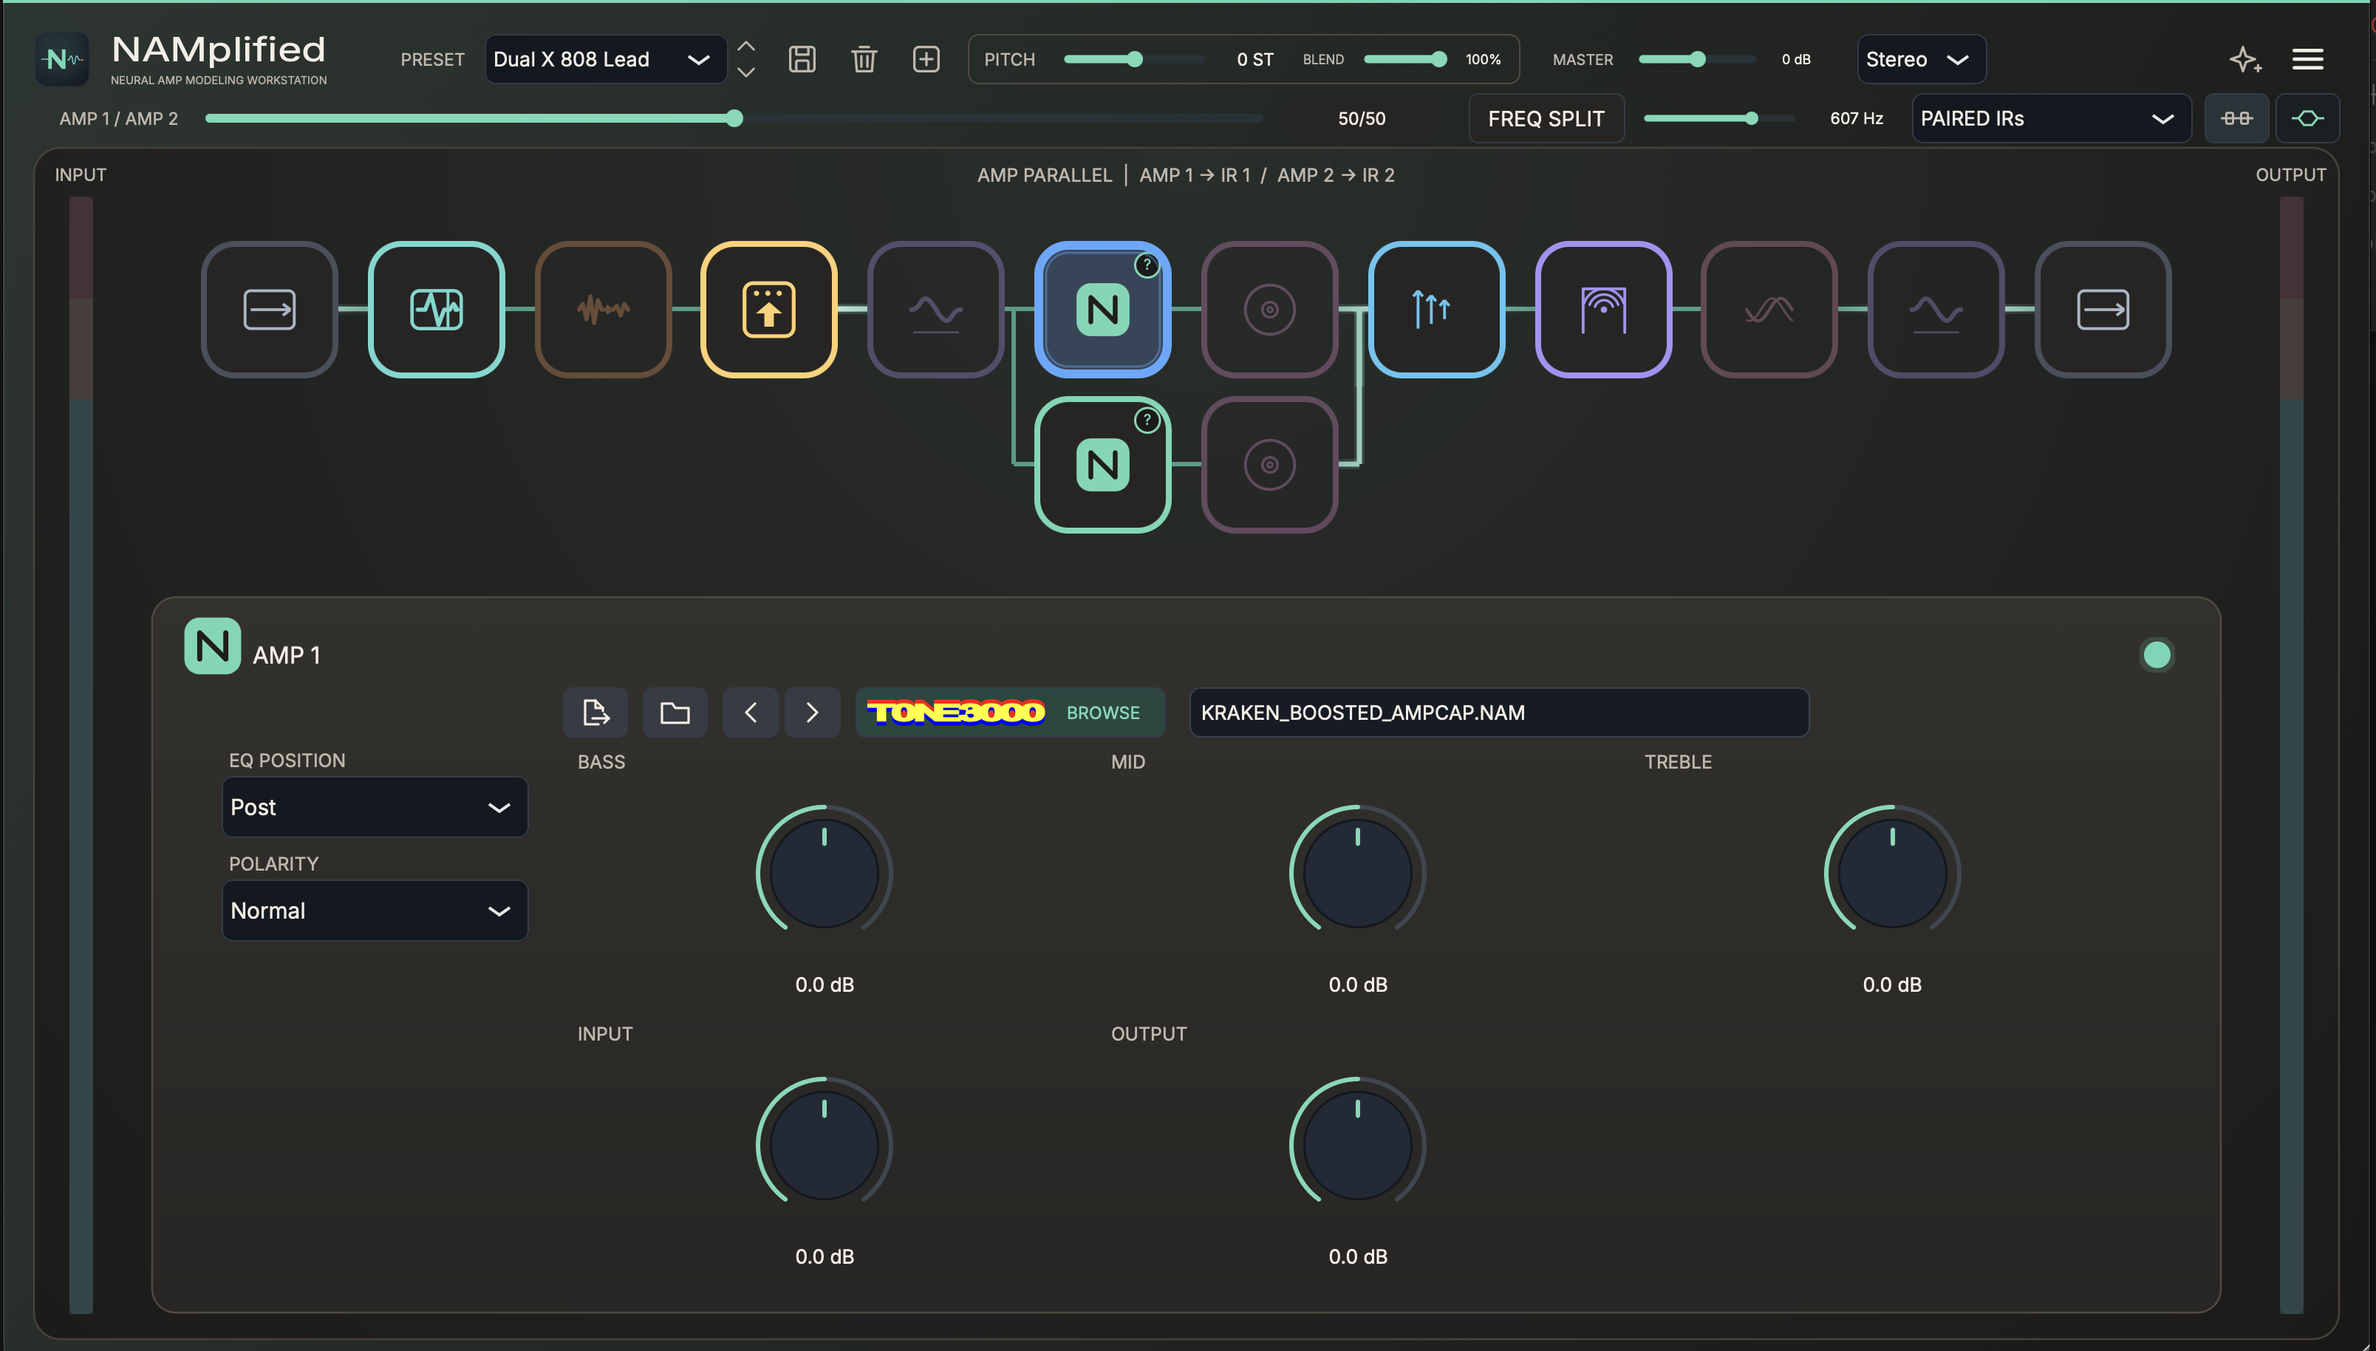
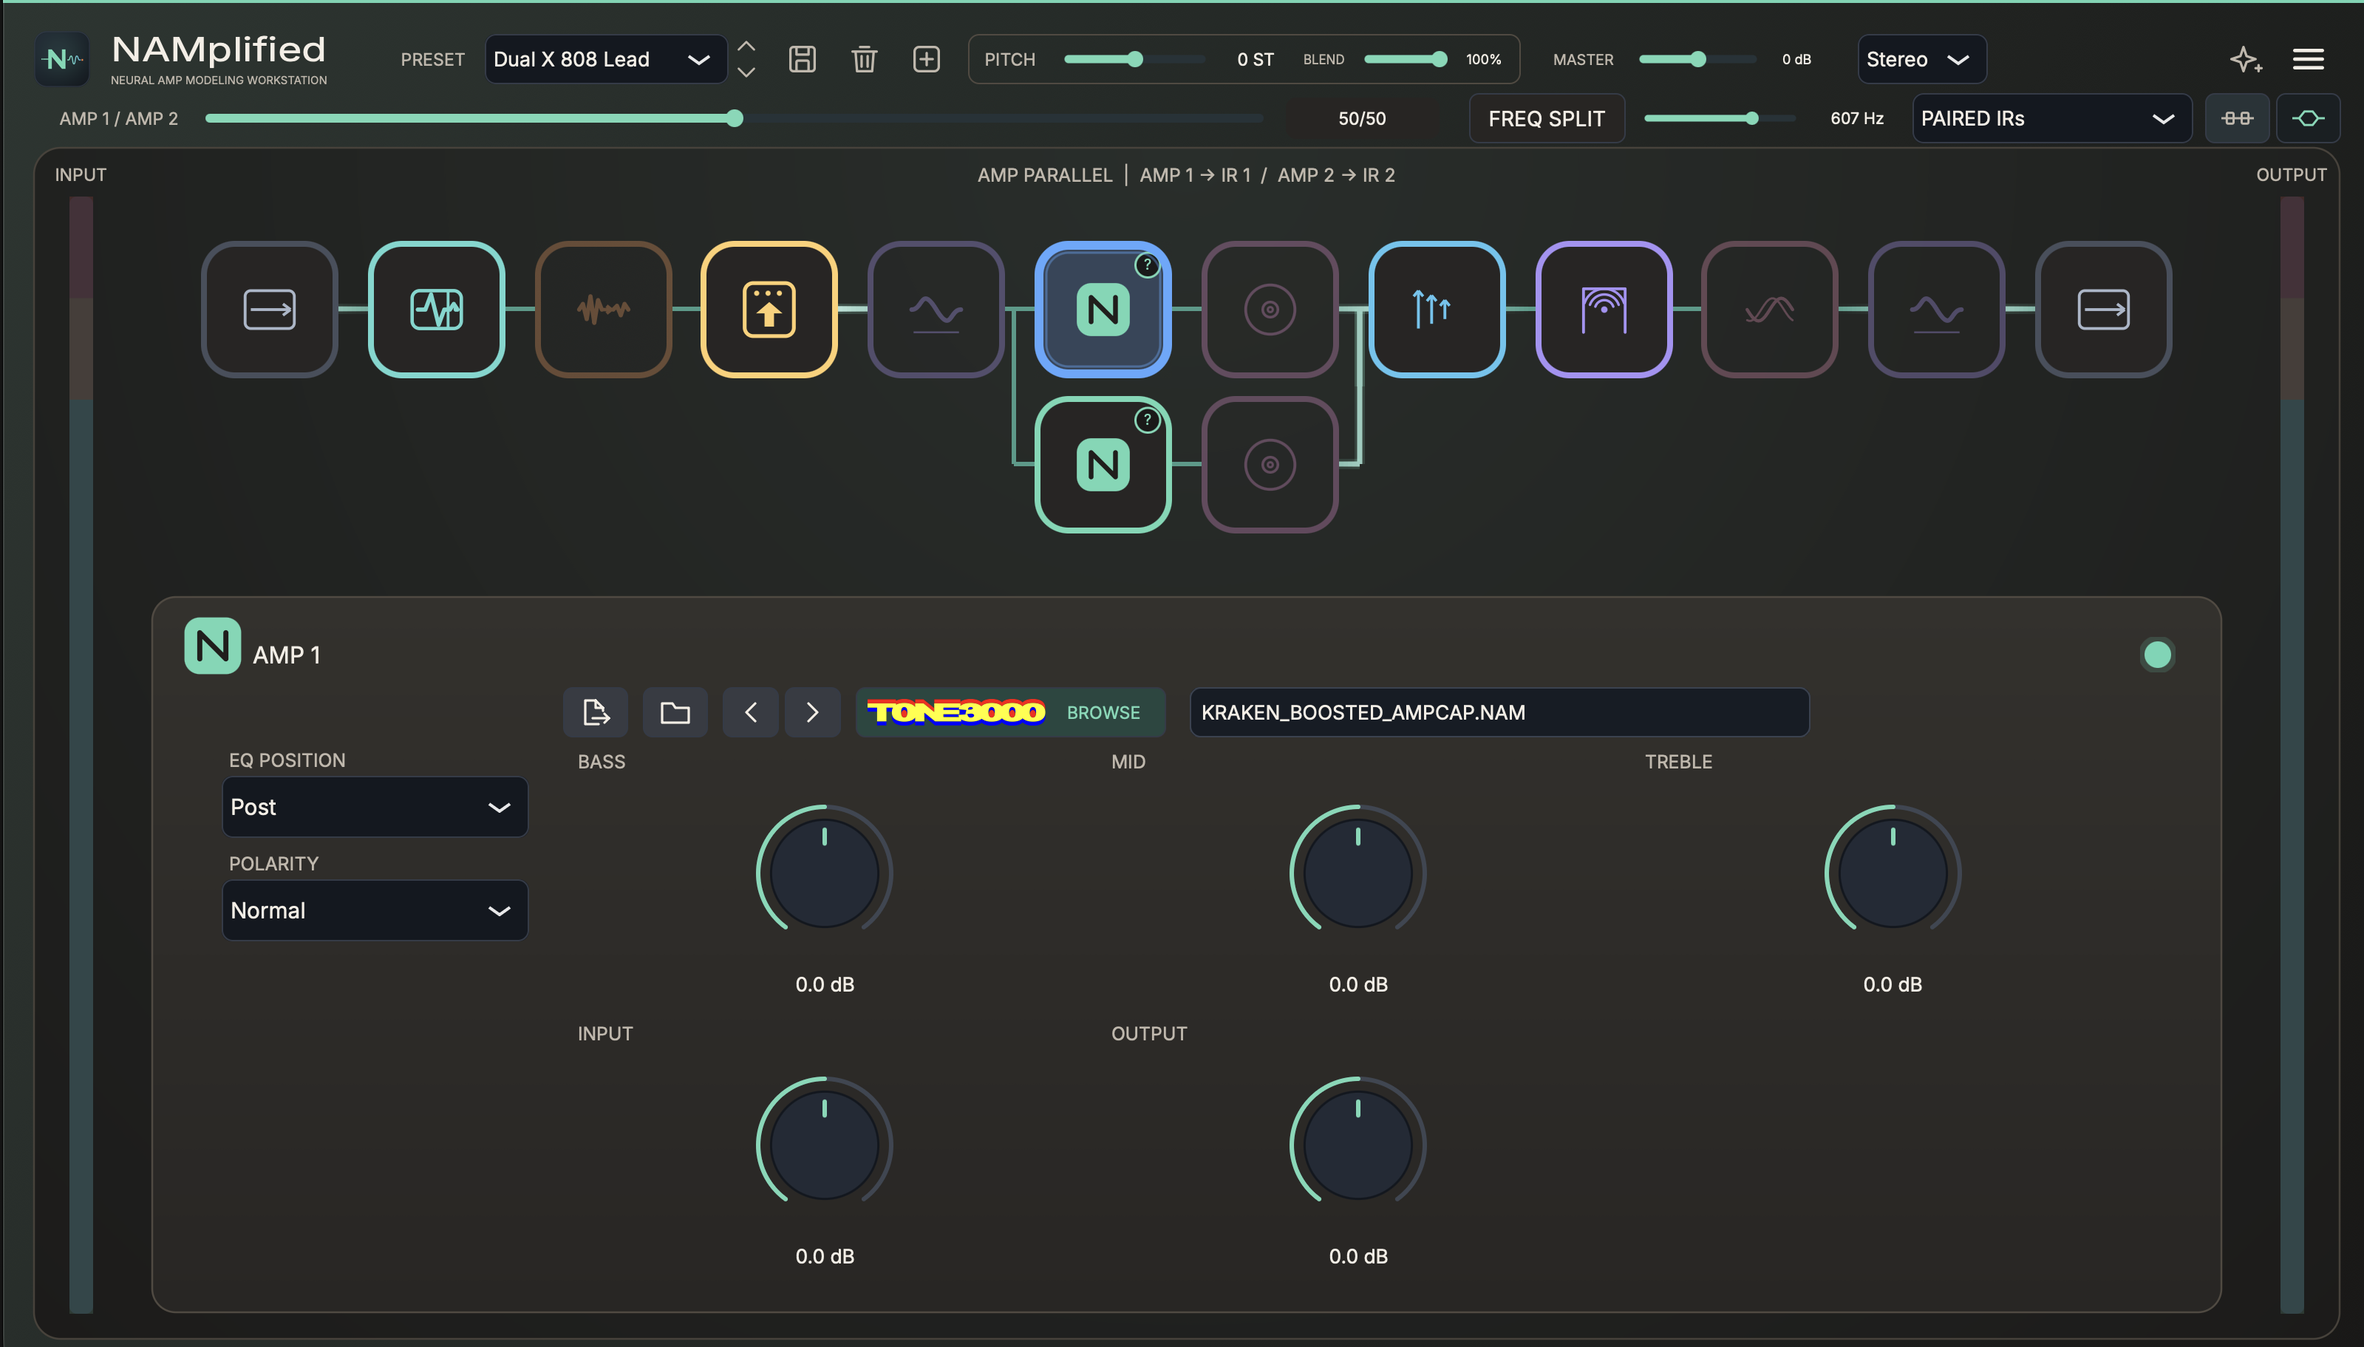
Update NAMplified website and add subpages

diff --git a/index.html b/index.html
@@ -11,7 +11,7 @@
 <body>
 <header class="wrap">
 <a class="brand" href="./"><img src="./assets/icon.svg" width="34" height="34" alt="">NAMplified</a>
-<nav aria-label="Main navigation"><a href="#routing">Routing</a><a href="#cabs">Cabinets</a><a href="#builder">Preset Builder</a><a href="#credits">Credits</a><a href="#release">Release status</a>
+<nav aria-label="Main navigation"><a href="./index.html" aria-current="page">Home</a><a href="./credits.html">Credits</a><a href="./about.html">About Me</a><a href="./download.html">Download</a>
 <a href="https://github.com/sedosa-guitar/namplified" title="NAMplified on GitHub" aria-label="NAMplified on GitHub" style="display: inline-flex; align-items: center">
 <svg aria-hidden="true" width="22" height="22" viewBox="0 0 16 16" fill="currentColor">
 <path d="M8 0C3.58 0 0 3.58 0 8c0 3.54 2.29 6.53 5.47 7.59.4.07.55-.17.55-.38 0-.19-.01-.82-.01-1.49-2.01.37-2.53-.49-2.69-.94-.09-.23-.48-.94-.82-1.13-.28-.15-.68-.52-.01-.53.63-.01 1.08.58 1.23.82.72 1.21 1.87.87 2.33.66.07-.52.28-.87.51-1.07-1.78-.2-3.64-.89-3.64-3.95 0-.87.31-1.59.82-2.15-.08-.2-.36-1.02.08-2.12 0 0 .67-.21 2.2.82a7.65 7.65 0 0 1 4 0c1.53-1.04 2.2-.82 2.2-.82.44 1.1.16 1.92.08 2.12.51.56.82 1.27.82 2.15 0 3.07-1.87 3.75-3.65 3.95.29.25.54.73.54 1.48 0 1.07-.01 1.93-.01 2.2 0 .21.15.46.55.38A8 8 0 0 0 16 8c0-4.42-3.58-8-8-8Z"/>
@@ -23,12 +23,12 @@
 <section class="hero wrap" aria-labelledby="headline">
   <div>
     <h1 id="headline">NAMplified</h1>
-    <p class="lede">A guitar tone workstation for macOS with NAM amp captures, cabinet IRs, and effects.</p>
+    <p class="lede">A free, open-source guitar DSP plug-in and standalone app for macOS, with NAM amp captures, cabinet IRs, and effects.</p>
   </div>
-  <a class="button" href="#routing">Explore the signal chain ↓</a>
+  <a class="button" href="./download.html">Download for macOS ↓</a>
 </section>
 <figure class="screen wrap">
-  <img src="./assets/namplified-parallel-amp1.png" width="3216" height="1828" alt="NAMplified in parallel mode with paired cabinet paths and Amp 1 controls">
+  <img src="./assets/namplified-parallel-amp1.png?v=dual-x-808" width="3199" height="1823" alt="NAMplified in parallel mode with paired cabinet paths and Amp 1 controls">
 </figure>
 <section id="routing" class="wrap rig">
 <h2>Dual NAM routing</h2>
@@ -52,6 +52,20 @@
 <a class="frame" href="./assets/namplified-virtual-cab.png"><img src="./assets/namplified-virtual-cab.png" width="2828" height="994" loading="lazy" alt="Oversized 4x12 with microphone selection, position controls and cabinet EQ"></a>
 </article></div>
 </section>
+<section id="effects" class="wrap rig">
+<h2>Built-in effects</h2>
+<p class="lede">Tighten the signal before the amp or add space and movement after the cab.</p>
+<div class="cab-examples">
+<article>
+<h3>Before the amp</h3>
+<p>Clean up noise with the gate, shape the attack with an 1176-style compressor, and push the amp with a Clean Boost, 808 Drive, or NAM pedal capture. Use the pre EQ to shape what hits the amp.</p>
+</article>
+<article>
+<h3>After the cab</h3>
+<p>Add digital or analog delay, stereo chorus, and Room, Plate, Cloud, or IR reverb. Use the post EQ to shape the finished tone.</p>
+</article>
+</div>
+</section>
 <section id="builder" class="wrap rig builder">
 <div>
 <h2>Preset Builder <small>Beta</small></h2>
@@ -71,34 +85,6 @@
 <p><strong>Previous / Next.</strong> Open a NAM folder and use the arrows to step through its captures while you play.</p>
 <p><strong>TONE3000.</strong> Browse tones and select a capture directly in the amp editor.</p>
 <p><small>NAMplified is an independent project and is not affiliated with or endorsed by TONE3000.</small></p>
-</section>
-<section id="credits" class="wrap rig">
-  <h2>Open-source credits</h2>
-  <p class="lede">Thanks to the developers whose work shapes the sound of NAMplified.</p>
-  <dl class="credits">
-    <div>
-      <dt><a href="https://github.com/airwindows/airwindows">Airwindows</a> by Chris Johnson</dt>
-      <dd>
-        <ul>
-          <li><a href="https://www.airwindows.com/takecare/">TakeCare</a> · Stereo chorus ensemble</li>
-          <li><a href="https://github.com/airwindows/airwindows/tree/94cb6793893027fb418ffac7cdbfcb9b4c82aadb/plugins/LinuxVST/src/kPlate140">kPlate140</a> · Plate reverb</li>
-          <li><a href="https://github.com/airwindows/airwindows/tree/94cb6793893027fb418ffac7cdbfcb9b4c82aadb/plugins/LinuxVST/src/Galactic2">Galactic2</a> · Cloud reverb</li>
-        </ul>
-      </dd>
-    </div>
-    <div><dt><a href="https://github.com/michaelwillis/dragonfly-reverb">Dragonfly Reverb &amp; Freeverb3</a></dt><dd>Room reverb, built on Teru Kamogashira’s Freeverb3.</dd></div>
-    <div><dt><a href="https://github.com/Chowdhury-DSP/ChowMatrix">ChowMatrix</a> &amp; <a href="https://github.com/Chowdhury-DSP/chowdsp_wdf">chowdsp_wdf</a></dt><dd>Jatin Chowdhury’s DSP for the analog delay and boost.</dd></div>
-    <div><dt><a href="https://github.com/sdatkinson/NeuralAmpModelerCore">NeuralAmpModelerCore</a> &amp; <a href="https://github.com/juce-framework/JUCE">JUCE</a></dt><dd>Steven Atkinson’s NAM engine and the app and plug-in framework.</dd></div>
-    <div><dt><a href="https://github.com/ggml-org/llama.cpp">llama.cpp</a> &amp; <a href="https://huggingface.co/Qwen/Qwen3-4B-Instruct-2507">Qwen</a></dt><dd>Local inference and the model behind Preset Builder.</dd></div>
-    <div><dt><a href="https://github.com/vessel-dsp/ConeTracer">ConeTracer</a></dt><dd>Cab modelling for the local Virtual Cab development preview.</dd></div>
-    <div><dt><a href="https://www.tone3000.com">TONE3000</a></dt><dd>Community NAM capture library. Browse tones and load a selected capture directly from the amp editor. NAMplified is independent and is not affiliated with or endorsed by TONE3000.</dd></div>
-  </dl>
-  <a href="https://github.com/sedosa-guitar/namplified/blob/main/THIRD_PARTY_NOTICES.md">Full credits and licenses</a>
-</section>
-<section id="release" class="wrap release">
-<h2>In active development.</h2>
-<p class="lede">Public downloads are not available yet.</p>
-<ul class="formats" aria-label="Current macOS build formats"><li>Standalone</li><li>Audio Unit</li><li>VST3</li><li>MIDI CC Learn</li></ul>
 </section>
 </main>
 <footer class="wrap" style="flex-wrap: wrap">

diff --git a/credits.html b/credits.html
@@ -1,0 +1,53 @@
+<!doctype html>
+<html lang="en">
+<head>
+<meta charset="utf-8">
+<meta name="viewport" content="width=device-width, initial-scale=1">
+<meta name="description" content="The open-source projects and developers behind NAMplified.">
+<title>Open-source credits | NAMplified</title>
+<link rel="icon" href="./assets/icon.svg" type="image/svg+xml">
+<link rel="stylesheet" href="./style.css?v=3d162f4a30a9">
+</head>
+<body>
+<header class="wrap">
+<a class="brand" href="./"><img src="./assets/icon.svg" width="34" height="34" alt="">NAMplified</a>
+<nav aria-label="Main navigation"><a href="./index.html">Home</a><a href="./credits.html" aria-current="page">Credits</a><a href="./about.html">About Me</a><a href="./download.html">Download</a>
+<a href="https://github.com/sedosa-guitar/namplified" title="NAMplified on GitHub" aria-label="NAMplified on GitHub" style="display: inline-flex; align-items: center">
+<svg aria-hidden="true" width="22" height="22" viewBox="0 0 16 16" fill="currentColor">
+<path d="M8 0C3.58 0 0 3.58 0 8c0 3.54 2.29 6.53 5.47 7.59.4.07.55-.17.55-.38 0-.19-.01-.82-.01-1.49-2.01.37-2.53-.49-2.69-.94-.09-.23-.48-.94-.82-1.13-.28-.15-.68-.52-.01-.53.63-.01 1.08.58 1.23.82.72 1.21 1.87.87 2.33.66.07-.52.28-.87.51-1.07-1.78-.2-3.64-.89-3.64-3.95 0-.87.31-1.59.82-2.15-.08-.2-.36-1.02.08-2.12 0 0 .67-.21 2.2.82a7.65 7.65 0 0 1 4 0c1.53-1.04 2.2-.82 2.2-.82.44 1.1.16 1.92.08 2.12.51.56.82 1.27.82 2.15 0 3.07-1.87 3.75-3.65 3.95.29.25.54.73.54 1.48 0 1.07-.01 1.93-.01 2.2 0 .21.15.46.55.38A8 8 0 0 0 16 8c0-4.42-3.58-8-8-8Z"/>
+</svg>
+</a>
+</nav>
+</header>
+<main>
+<section id="credits" class="wrap rig">
+  <h1>Open-source credits</h1>
+  <p class="lede">Thanks to the developers whose work shapes the sound of NAMplified.</p>
+  <dl class="credits">
+    <div>
+      <dt><a href="https://github.com/airwindows/airwindows">Airwindows</a> by Chris Johnson</dt>
+      <dd>
+        <ul>
+          <li><a href="https://www.airwindows.com/takecare/">TakeCare</a> · Stereo chorus ensemble</li>
+          <li><a href="https://github.com/airwindows/airwindows/tree/94cb6793893027fb418ffac7cdbfcb9b4c82aadb/plugins/LinuxVST/src/kPlate140">kPlate140</a> · Plate reverb</li>
+          <li><a href="https://github.com/airwindows/airwindows/tree/94cb6793893027fb418ffac7cdbfcb9b4c82aadb/plugins/LinuxVST/src/Galactic2">Galactic2</a> · Cloud reverb</li>
+        </ul>
+      </dd>
+    </div>
+    <div><dt><a href="https://github.com/michaelwillis/dragonfly-reverb">Dragonfly Reverb &amp; Freeverb3</a></dt><dd>Room reverb, built on Teru Kamogashira’s Freeverb3.</dd></div>
+    <div><dt><a href="https://github.com/Chowdhury-DSP/ChowMatrix">ChowMatrix</a> &amp; <a href="https://github.com/Chowdhury-DSP/chowdsp_wdf">chowdsp_wdf</a></dt><dd>Jatin Chowdhury’s DSP for the analog delay and boost.</dd></div>
+    <div><dt><a href="https://github.com/sdatkinson/NeuralAmpModelerCore">NeuralAmpModelerCore</a> &amp; <a href="https://github.com/juce-framework/JUCE">JUCE</a></dt><dd>Steven Atkinson’s NAM engine and the app and plug-in framework.</dd></div>
+    <div><dt><a href="https://github.com/ggml-org/llama.cpp">llama.cpp</a> &amp; <a href="https://huggingface.co/Qwen/Qwen3-4B-Instruct-2507">Qwen</a></dt><dd>Local inference and the model behind Preset Builder.</dd></div>
+    <div><dt><a href="https://github.com/vessel-dsp/ConeTracer">ConeTracer</a></dt><dd>Cab modelling for the local Virtual Cab development preview.</dd></div>
+    <div><dt><a href="https://www.tone3000.com">TONE3000</a></dt><dd>Community NAM capture library. Browse tones and load a selected capture directly from the amp editor. NAMplified is independent and is not affiliated with or endorsed by TONE3000.</dd></div>
+  </dl>
+  <a href="https://github.com/sedosa-guitar/namplified/blob/main/THIRD_PARTY_NOTICES.md">Full credits and licenses</a>
+</section>
+</main>
+<footer class="wrap" style="flex-wrap: wrap">
+  <span>NAMplified</span>
+  <a href="https://github.com/sedosa-guitar/namplified">GitHub</a>
+  <a href="./">Back to home</a>
+</footer>
+</body>
+</html>

diff --git a/download.html b/download.html
@@ -1,0 +1,38 @@
+<!doctype html>
+<html lang="en">
+<head>
+<meta charset="utf-8">
+<meta name="viewport" content="width=device-width, initial-scale=1">
+<meta name="description" content="NAMplified for macOS in Standalone, Audio Unit, and VST3 formats.">
+<title>Download NAMplified | NAMplified</title>
+<link rel="icon" href="./assets/icon.svg" type="image/svg+xml">
+<link rel="stylesheet" href="./style.css?v=3d162f4a30a9">
+</head>
+<body>
+<header class="wrap">
+<a class="brand" href="./"><img src="./assets/icon.svg" width="34" height="34" alt="">NAMplified</a>
+<nav aria-label="Main navigation"><a href="./index.html">Home</a><a href="./credits.html">Credits</a><a href="./about.html">About Me</a><a href="./download.html" aria-current="page">Download</a>
+<a href="https://github.com/sedosa-guitar/namplified" title="NAMplified on GitHub" aria-label="NAMplified on GitHub" style="display: inline-flex; align-items: center">
+<svg aria-hidden="true" width="22" height="22" viewBox="0 0 16 16" fill="currentColor">
+<path d="M8 0C3.58 0 0 3.58 0 8c0 3.54 2.29 6.53 5.47 7.59.4.07.55-.17.55-.38 0-.19-.01-.82-.01-1.49-2.01.37-2.53-.49-2.69-.94-.09-.23-.48-.94-.82-1.13-.28-.15-.68-.52-.01-.53.63-.01 1.08.58 1.23.82.72 1.21 1.87.87 2.33.66.07-.52.28-.87.51-1.07-1.78-.2-3.64-.89-3.64-3.95 0-.87.31-1.59.82-2.15-.08-.2-.36-1.02.08-2.12 0 0 .67-.21 2.2.82a7.65 7.65 0 0 1 4 0c1.53-1.04 2.2-.82 2.2-.82.44 1.1.16 1.92.08 2.12.51.56.82 1.27.82 2.15 0 3.07-1.87 3.75-3.65 3.95.29.25.54.73.54 1.48 0 1.07-.01 1.93-.01 2.2 0 .21.15.46.55.38A8 8 0 0 0 16 8c0-4.42-3.58-8-8-8Z"/>
+</svg>
+</a>
+</nav>
+</header>
+<main>
+<section id="download" class="wrap release" aria-labelledby="download-heading">
+  <h1 id="download-heading">Download NAMplified</h1>
+  <p class="lede">Build your guitar rig with Neural Amp Modeler captures, cabinet impulse responses, and effects. Play through the standalone app or record with the plug-in in your DAW.</p>
+  <ul class="formats" aria-label="Included formats"><li>Standalone</li><li>Audio Unit</li><li>VST3</li></ul>
+  <p><strong>Requirements:</strong> Apple Silicon Mac with macOS 14.4 or later.</p>
+  <p>The ZIP includes all three formats and an HTML installation guide.</p>
+  <p><strong>Public download coming soon.</strong></p>
+</section>
+</main>
+<footer class="wrap" style="flex-wrap: wrap">
+  <span>NAMplified</span>
+  <a href="https://github.com/sedosa-guitar/namplified">GitHub</a>
+  <a href="./">Back to home</a>
+</footer>
+</body>
+</html>

diff --git a/about.html b/about.html
@@ -1,0 +1,36 @@
+<!doctype html>
+<html lang="en">
+<head>
+<meta charset="utf-8">
+<meta name="viewport" content="width=device-width, initial-scale=1">
+<meta name="description" content="Meet sedosa, the guitarist and software engineer behind NAMplified.">
+<title>About Me | NAMplified</title>
+<link rel="icon" href="./assets/icon.svg" type="image/svg+xml">
+<link rel="stylesheet" href="./style.css?v=3d162f4a30a9">
+</head>
+<body>
+<header class="wrap">
+<a class="brand" href="./"><img src="./assets/icon.svg" width="34" height="34" alt="">NAMplified</a>
+<nav aria-label="Main navigation"><a href="./index.html">Home</a><a href="./credits.html">Credits</a><a href="./about.html" aria-current="page">About Me</a><a href="./download.html">Download</a>
+<a href="https://github.com/sedosa-guitar/namplified" title="NAMplified on GitHub" aria-label="NAMplified on GitHub" style="display: inline-flex; align-items: center">
+<svg aria-hidden="true" width="22" height="22" viewBox="0 0 16 16" fill="currentColor">
+<path d="M8 0C3.58 0 0 3.58 0 8c0 3.54 2.29 6.53 5.47 7.59.4.07.55-.17.55-.38 0-.19-.01-.82-.01-1.49-2.01.37-2.53-.49-2.69-.94-.09-.23-.48-.94-.82-1.13-.28-.15-.68-.52-.01-.53.63-.01 1.08.58 1.23.82.72 1.21 1.87.87 2.33.66.07-.52.28-.87.51-1.07-1.78-.2-3.64-.89-3.64-3.95 0-.87.31-1.59.82-2.15-.08-.2-.36-1.02.08-2.12 0 0 .67-.21 2.2.82a7.65 7.65 0 0 1 4 0c1.53-1.04 2.2-.82 2.2-.82.44 1.1.16 1.92.08 2.12.51.56.82 1.27.82 2.15 0 3.07-1.87 3.75-3.65 3.95.29.25.54.73.54 1.48 0 1.07-.01 1.93-.01 2.2 0 .21.15.46.55.38A8 8 0 0 0 16 8c0-4.42-3.58-8-8-8Z"/>
+</svg>
+</a>
+</nav>
+</header>
+<main>
+<section id="about" class="wrap rig">
+  <h1>About Me</h1>
+  <p class="lede">I’m sedosa, a guitarist and software engineer.</p>
+  <p class="lede">NAMplified is a free hobby project. If you’d like to help cover development costs, you can leave an optional tip.</p>
+  <p><a class="button" href="https://ko-fi.com/sedosa">Leave a tip on Ko-fi</a></p>
+</section>
+</main>
+<footer class="wrap" style="flex-wrap: wrap">
+  <span>NAMplified</span>
+  <a href="https://github.com/sedosa-guitar/namplified">GitHub</a>
+  <a href="./">Back to home</a>
+</footer>
+</body>
+</html>
